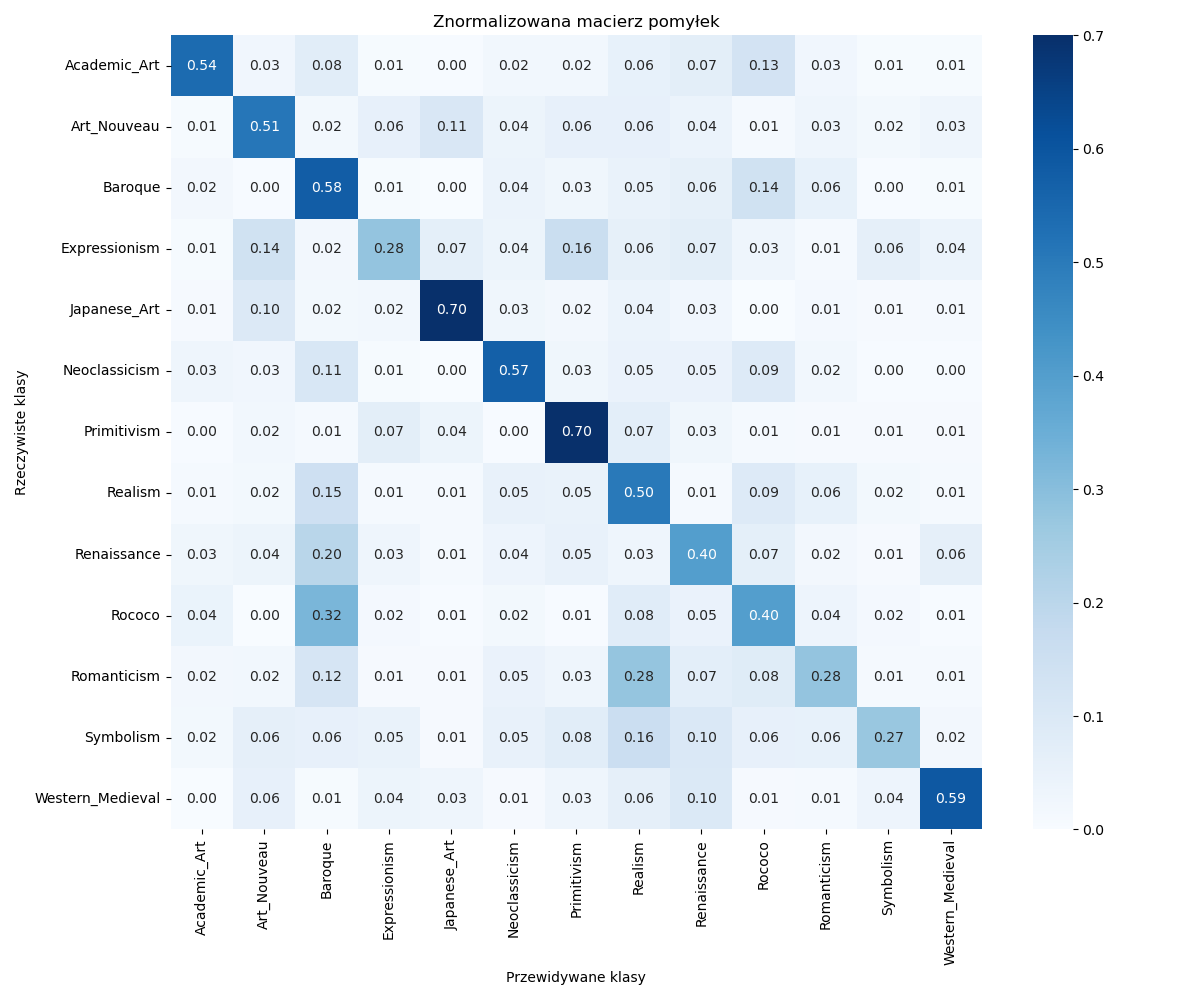
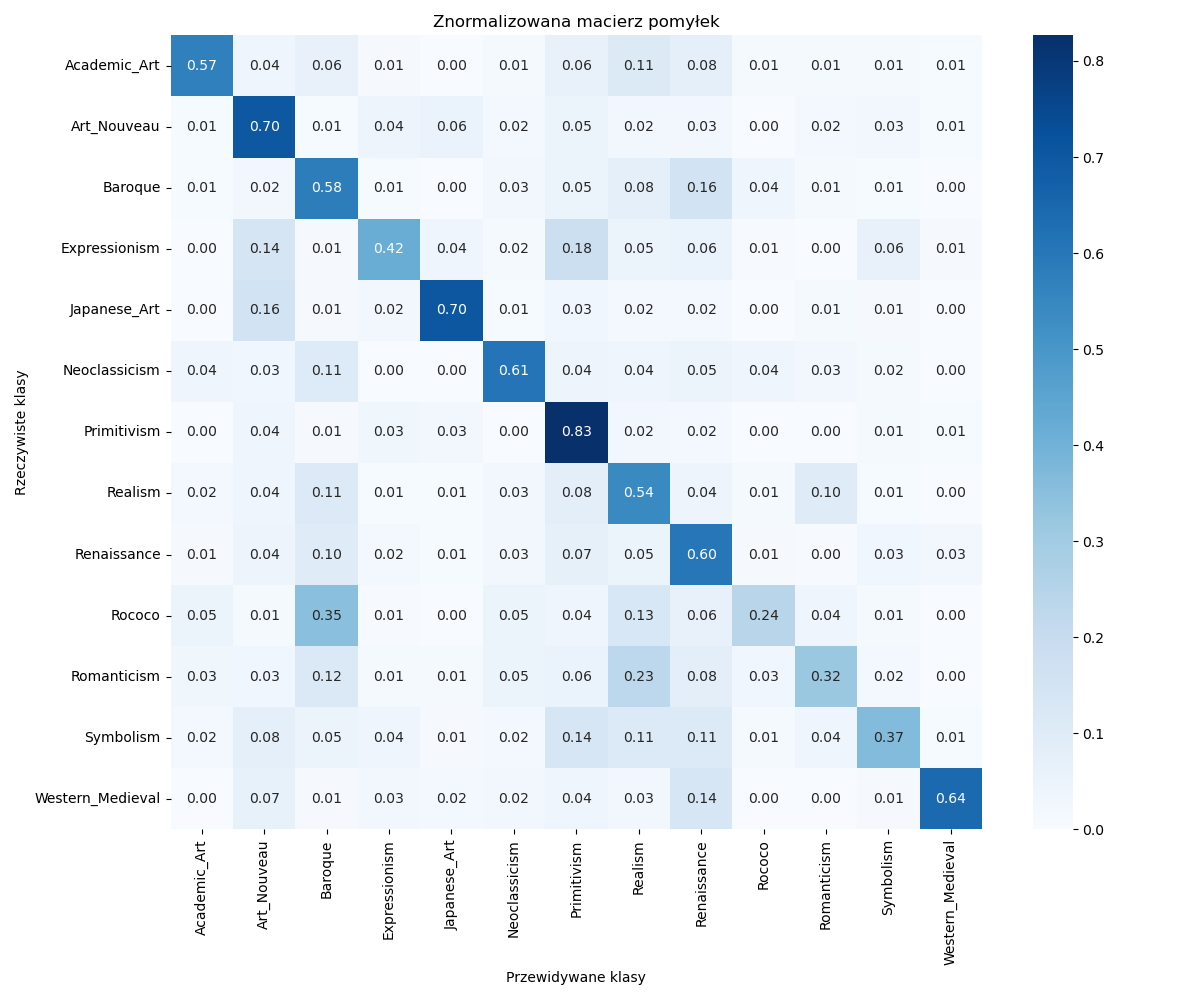
update train and main

diff --git a/train_utils.py b/train_utils.py
@@ -76,7 +76,6 @@ def evaluate_model(model, val_loader, device, model_name, calc_metrics=False):
     criterion = nn.CrossEntropyLoss()
 
     print("🔍 Rozpoczynam evaluate_model...")
-    print(f"🧪 Liczba batchy w val_loader: {len(val_loader)}")
 
     with torch.no_grad():
         for batch_idx, (inputs, labels, img_paths) in enumerate(tqdm(val_loader, desc="🧪 Walidacja")):
@@ -208,9 +207,9 @@ def train_model(model, train_loader, val_loader, criterion, optimizer, device, m
         val_accs.append(val_acc)
         
         #Zapisy modelu
-        epoch_path = os.path.join(model_dir, f"epoch_{epoch+1}.pt")
+        epoch_path = os.path.join(model_dir, f"epoch_{current_epoch}.pt")
         torch.save(model.state_dict(), epoch_path)
-        print(f"💾 Zapisano model z epoki {epoch+1} do {epoch_path}")
+        print(f"💾 Zapisano model z epoki {current_epoch} do {epoch_path}")
         
         if val_acc > best_val_acc:
             best_val_acc = val_acc
@@ -222,17 +221,24 @@ def train_model(model, train_loader, val_loader, criterion, optimizer, device, m
         print(f"Train Loss: {train_loss:.4f} | Train Acc: {train_acc:.2f}% | Val Loss: {val_loss:.4f} | Val Acc: {val_acc:.2f}%")
         torch.cuda.empty_cache()
         
-        if (epoch + 1) % 3 == 0 or (epoch + 1) == num_epochs:
+        if (current_epoch + 1) % 3 == 0 or (current_epoch + 1) == num_epochs:
             plot_training_history(
                 train_losses, val_losses, train_accs, val_accs, model_name=model_name,
-                save_path=os.path.join(plot_dir, f"training_history_epoch_{epoch+1}.png")
+                save_path=os.path.join(plot_dir, f"training_history_epoch_{current_epoch}.png")
             )
 
         
-        print(f"✔ Zakończono epokę {epoch+1}")
+        print(f"✔ Zakończono epokę {current_epoch}")
     
     print("\n🏁 Ewaluacja końcowa modelu...")
-    model.load_state_dict(torch.load(f"{model_name}_best_model.pt"))
+    best_model_path = os.path.join(model_dir, "best_model.pt")
+    if os.path.exists(best_model_path):
+        model.load_state_dict(torch.load(best_model_path))
+    else:
+        print(f"⚠ Nie znaleziono pliku z najlepszym modelem: {best_model_path}")
+        print("⏭ Pomijam ewaluację końcową.")
+        return None, None
+
     final_results = evaluate_model(model, val_loader, device, model_name, calc_metrics=True)
 
     plot_training_history(train_losses, val_losses, train_accs, val_accs, model_name=model_name, save_path=os.path.join(plot_dir, "final_training_history.png"))

diff --git a/main.py b/main.py
@@ -25,10 +25,9 @@ if __name__ == "__main__":
     # Parametry
     img_size = 224
     batch_size = 32
-    
-    start_epoch = 0        # liczba epok już przeprowadzonych
-    total_epochs = 10        # do ilu epok chcesz dociągnąć model
-    continue_training = False 
+    start_epoch = 10       # liczba epok już przeprowadzonych
+    total_epochs = 15       # do ilu epok chcesz dociągnąć model
+    continue_training = True 
 
     # Ścieżki wyjściowe
     processed_dir = os.path.join(output_directory, "processed")
@@ -51,7 +50,7 @@ if __name__ == "__main__":
         print(f"\n🧠 Trenuję model: {model_name}")
     
         if continue_training:
-            checkpoint_path = f"{model_name}_best_model.pt"
+            checkpoint_path = os.path.join("models", model_name, "best_model.pt")
             if os.path.exists(checkpoint_path):
                 print(f"🔄 Wczytywanie modelu z {checkpoint_path}")
                 model.load_state_dict(torch.load(checkpoint_path, map_location=device))
